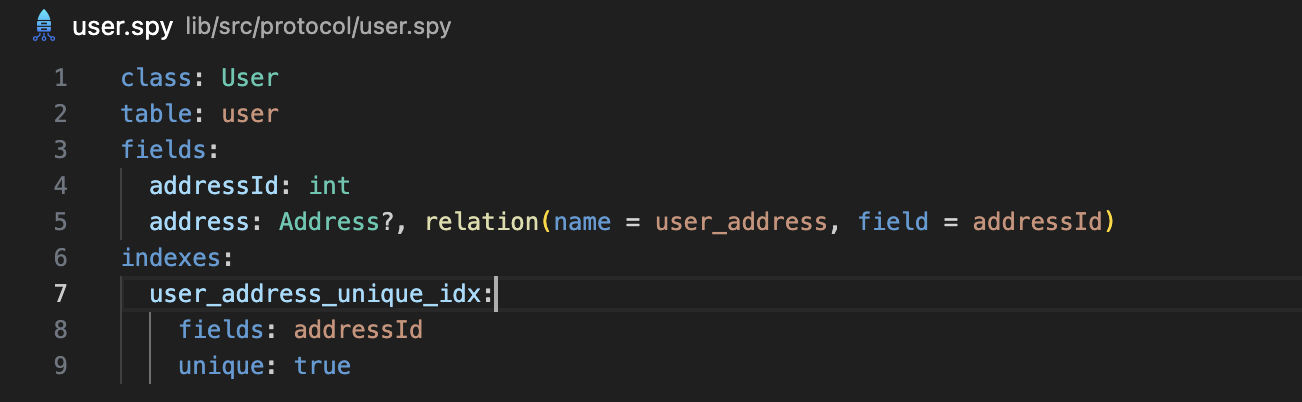
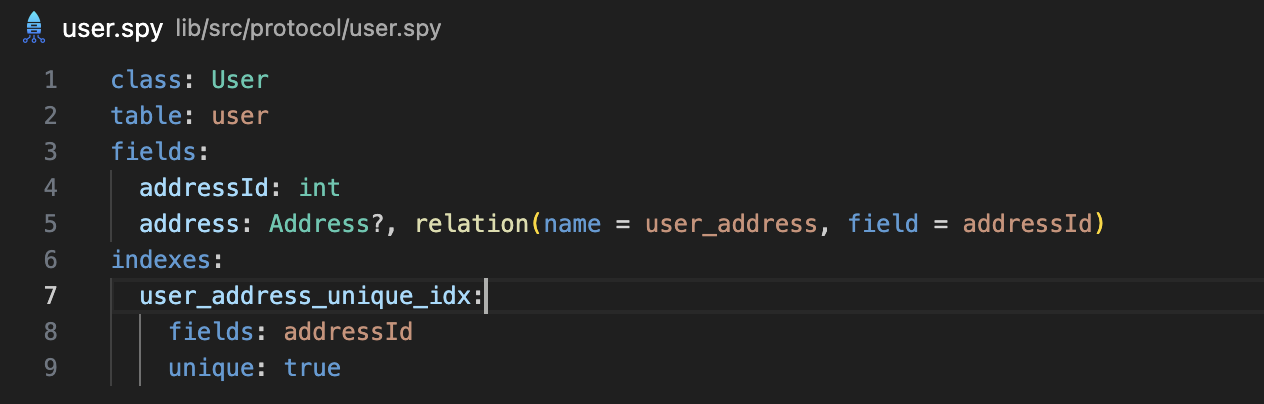
chore: Setup assets.

diff --git a/tools/serverpod_vscode_extension/README.md b/tools/serverpod_vscode_extension/README.md
@@ -4,9 +4,9 @@
 
 ## Key features
 
-Syntax highlighting in protocol files,
+Syntax highlighting in protocol files.
 
-![Syntax highlighting](assets/images/syntax-highlighting2.png)
+![Syntax highlighting](assets/images/syntax-highlighting.png)
 
 Real-time diagnostics show errors in protocol files as you type.
 
